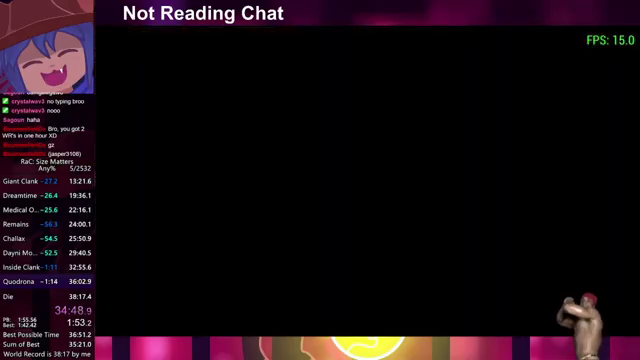
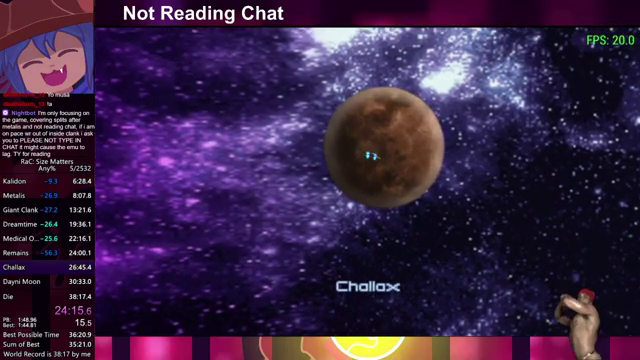
Fixed Challax load by adding edge case.

diff --git a/sm-load-normalizer-by-image/image_scanning/image_scanner.py b/sm-load-normalizer-by-image/image_scanning/image_scanner.py
@@ -139,6 +139,23 @@ class ImageScanner:
     def crop_frame(self, frame):
         raise NotImplementedError
 
+    # The position is either a frame number for video scanning, or a time stamp for screen scanning.
+    def record_load_start_position(self):
+        raise NotImplementedError
+
+    # Same functionality as "record_load_position", just for black screens instead.
+    def record_black_screen_start_position(self):
+        raise NotImplementedError
+
+    # Get the difference in time between the last measured time and now. This is used to
+    # time loads.
+    def get_load_time_diff(self):
+        raise NotImplementedError
+
+    # Same functionality as "get_load_time_diff", just for black screens instead.
+    def get_black_screen_time_diff(self):
+        raise NotImplementedError
+
     def is_load_valid(self, load_number, load_time):
         try:
             load_bound = self.load_bounds[load_number]
@@ -172,39 +189,21 @@ class ImageScanner:
             print("Load number", str(self.loads_added + 1), "added.")
         self.loads_added += 1
 
-    # The position is either a frame number for video scanning, or a time stamp for screen scanning.
-    def record_load_start_position(self):
-        raise NotImplementedError
-
-    # Same functionality as "record_load_position", just for black screens instead.
-    def record_black_screen_start_position(self):
-        raise NotImplementedError
-
-    # Get the difference in time between the last measured time and now. This is used to
-    # time loads.
-    def get_load_time_diff(self):
-        raise NotImplementedError
-
-    # Same functionality as "get_load_time_diff", just for black screens instead.
-    def get_black_screen_time_diff(self):
-        raise NotImplementedError
-
     # Functionality performed when going from a non-black frame to a black frame (entering).
     # This functionality is important for timing the loads.
     def enter_black_frame(self, debug_frame_before_black):
         if self.scanner_state == ScannerState.DEFAULT:
             self.scanner_state = ScannerState.IN_FIRST_BLACK_SCREEN
             self.debug_frame_before_load = debug_frame_before_black
-            # Time the black screen to make sure it is valid.
-            self.record_black_screen_start_position()
+            # Challax edge case.
+            if self.loads_added == 8:
+                # Time the black screen to make sure it is valid.
+                self.record_black_screen_start_position()
         elif self.scanner_state == ScannerState.IN_POTENTIAL_LOAD:
             # We are at the end of the load.
             load_time = self.get_load_time_diff()
             # Only add the load if it is valid.
             if self.is_load_valid(self.loads_added, load_time):
-                # Note that we only check the validity of the first black screen in order
-                # to keep the checks to a minimum (too many checks may cause a failure
-                # to record a valid load). Checks are only added when they are needed.
                 self.record_load(load_time)
                 self.scanner_state = ScannerState.IN_SECOND_BLACK_SCREEN
                 # DEBUGGING
@@ -218,38 +217,15 @@ class ImageScanner:
                 self.scanner_state = ScannerState.IN_FIRST_BLACK_SCREEN
 
                 # Time the black screen to make sure it is valid.
-                self.record_black_screen_start_position()
-
-    # def enter_black_frame(self, debug_frame_before_black):
-        # if self.enter_black_count == 0:
-        #     self.enter_black_count = 1
-        #     self.debug_frame_before_load = debug_frame_before_black
-        #     # Time the black screen to make sure it is valid.
-        #     self.record_black_screen_start_position()
-        # elif self.enter_black_count == 1:
-        #     # We are at the end of the load.
-        #     load_time = self.get_load_time_diff()
-        #     # Only add the load if it is valid.
-        #     if self.is_load_valid(self.loads_added, load_time):
-        #         self.record_load(load_time)
-        #         self.enter_black_count = 0
-        #         # DEBUGGING
-        #         cv2.imwrite("frames/enter-black-load_" + str(self.loads_added) + "-_before" + ".png",
-        #                     self.debug_frame_before_load)
-        #         cv2.imwrite("frames/enter-black-load_" + str(self.loads_added) + "-after" + ".png",
-        #                     debug_frame_before_black)
-        #         # Don't add one to "enter_black_count" here, just return and begin the process again.
-        #     else:
-        #         # No load was added, so count this as the first enter_black_frame.
-        #         self.enter_black_count = 1
-        #
-        #         # Time the black screen to make sure it is valid.
-        #         self.record_black_screen_start_position()
+                # Challax edge case.
+                if self.loads_added == 8:
+                    self.record_black_screen_start_position()
 
     # Functionality performed when going from a black frame to a non-black frame (exiting).
     # This functionality is important for timing the loads.
     def exit_black_frame(self):
-        if self.scanner_state == ScannerState.IN_FIRST_BLACK_SCREEN:
+        # Challax edge case.
+        if (self.scanner_state == ScannerState.IN_FIRST_BLACK_SCREEN) and (self.loads_added == 8):
             black_time = self.get_black_screen_time_diff()
             if self.is_black_screen_valid(black_time):
                 self.scanner_state = ScannerState.IN_POTENTIAL_LOAD
@@ -258,20 +234,13 @@ class ImageScanner:
                 # We know that there cannot be a load after this black screen, so restart the
                 # load measurement process.
                 self.scanner_state = ScannerState.DEFAULT
+        elif self.scanner_state == ScannerState.IN_FIRST_BLACK_SCREEN:
+            self.scanner_state = ScannerState.IN_POTENTIAL_LOAD
+            self.record_load_start_position()
         elif self.scanner_state == ScannerState.IN_SECOND_BLACK_SCREEN:
             # We have finished recording this load. Set the scanner state back to default to
             # prepare for measuring the next load.
             self.scanner_state = ScannerState.DEFAULT
-
-    # def exit_black_frame(self):
-    #     if self.enter_black_count == 1:
-    #         black_time = self.get_black_screen_time_diff()
-    #         if self.is_black_screen_valid(black_time):
-    #             self.record_load_start_position()
-    #         else:
-    #             # We know that there cannot be a load after this black screen, so restart the
-    #             # load measurement process.
-    #             self.enter_black_count = 0
 
     # The position is either a frame number for video scanning, or a time stamp for screen scanning.
     def increment_position(self):
